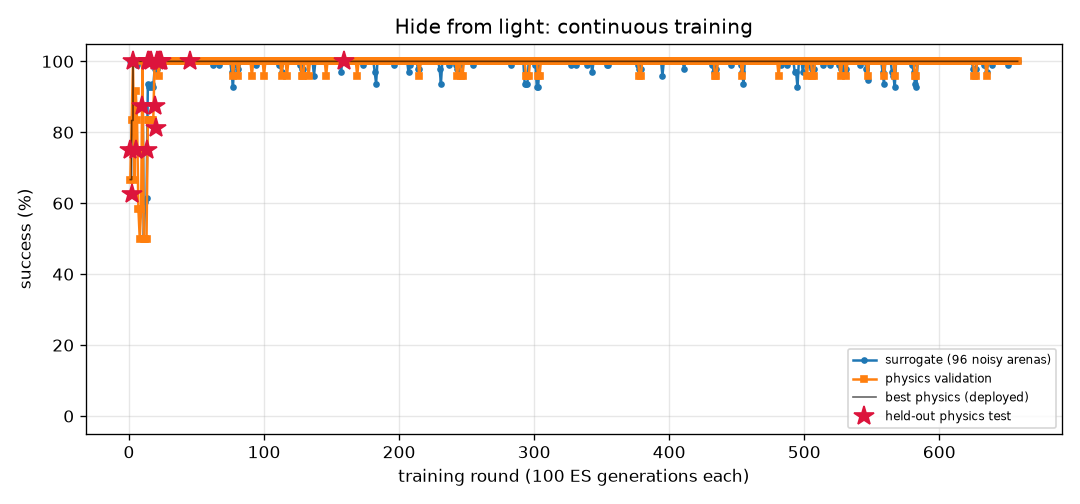
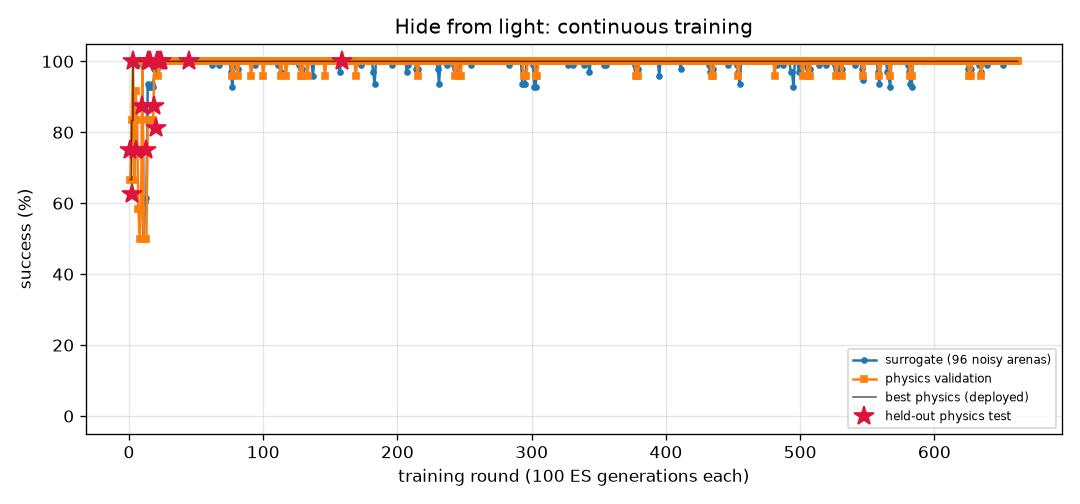
FlyLab: continuous training progress
- walk_forward: optimal, physics val 100% of 24, round 393
- turn: optimal, physics val 100% of 24, round 1070
- goto: optimal, physics val 100% of 24, round 304
- odor_seek: optimal, physics val 100% of 24, round 246
- odor_avoid: optimal, physics val 100% of 24, round 938
- light_seek: optimal, physics val 100% of 24, round 505
- light_avoid: optimal, physics val 100% of 24, round 662

diff --git a/projects/09_flylab/training/odor_avoid/REPORT.md b/projects/09_flylab/training/odor_avoid/REPORT.md
@@ -1,14 +1,14 @@
 # Escape a bad smell (`odor_avoid`) — training report
 
-*Auto-generated by `train_brains.py`, last updated 2026-11-15T16:46:27.*
+*Auto-generated by `train_brains.py`, last updated 2026-11-15T20:50:44.*
 
 ![curve](curve.png)
 
 | | |
 |---|---|
-| rounds | 933 |
-| ES generations | 93300 |
-| physics runs | 19698 |
+| rounds | 938 |
+| ES generations | 93800 |
+| physics runs | 19818 |
 | status | **optimal** |
 | best brain | round 373: physics validation **100%** on 24 arenas, surrogate 97% |
 | held-out physics test | **97%** on 32 unseen arenas (95% CI 84%-99%) (errors: [62.0, 57.4, 62.6, 61.9, 59.0, 61.6, 56.5, 60.7, 31.7, 60.9, 63.1, 57.1, 61.1, 62.1, 61.5, 60.2, 62.2, 55.2, 62.1, 54.2, 61.3, 62.0, 58.0, 61.9, 59.8, 56.5, 56.3, 56.4, 56.3, 57.7, 61.9, 32.4]) |
@@ -17,11 +17,6 @@ Physics error per arena: mm gained away from source (> 6 without first approachi
 
 | round | level | gens | sigma | surrogate | physics val | val errors | test | note |
 |---:|---:|---:|---:|---:|---:|---|---:|---|
-| 894 | 3 | 89400 | 0.026 | 93% | 100% | [62.2, 59.2, 56.2, 61.0, 62.3, 60.9, 60.6, 61.1, 61.4, 60.7, 62.0, 61.7, 55.1, 56.2, 51.7, 61.9, 62.0, 61.4, 52.6, 57.2, 61.9, 62.0, 59.4, 61.5] |  |  |
-| 895 | 3 | 89500 | 0.028 | 94% | 96% | [61.8, 56.5, 56.5, 56.5, 59.9, 59.1, 61.0, 34.6, 61.7, 58.2, 58.3, 60.9, 51.4, 55.4, 39.8, 59.8, 61.4, 57.2, 54.4, 58.8, 61.3, 54.9, 59.3, 59.9] |  |  |
-| 896 | 3 | 89600 | 0.028 | 96% | 100% | [60.9, 60.2, 56.0, 56.8, 61.7, 61.3, 60.6, 38.4, 61.5, 47.7, 59.6, 61.7, 54.3, 56.3, 43.2, 60.0, 61.7, 58.9, 54.7, 58.4, 61.4, 59.6, 59.2, 59.3] |  |  |
-| 897 | 3 | 89700 | 0.026 | 98% | 96% | [61.2, 59.0, 56.4, 60.5, 61.1, 62.1, 62.0, 59.5, 61.4, 61.7, 61.7, 61.8, 54.6, 55.9, 43.8, 61.0, 62.0, 61.8, 54.9, 56.8, 61.6, 61.7, 59.1, 61.7] |  | restart from best |
-| 898 | 3 | 89800 | 0.026 | 92% | 92% | [61.6, 56.7, 56.3, 56.5, 60.7, 39.8, 61.9, 1.4, 61.8, 23.5, 58.4, 61.2, 51.7, 55.5, 36.4, 60.8, 61.5, 60.4, 54.8, 56.0, 61.6, 23.4, 56.8, 14.6] |  |  |
 | 899 | 3 | 89900 | 0.029 | 97% | 100% | [60.9, 56.7, 56.4, 57.3, 62.1, 59.8, 60.1, 19.1, 61.8, 47.0, 61.8, 62.2, 54.9, 56.0, 50.9, 61.7, 61.5, 62.0, 55.6, 56.6, 62.5, 44.5, 57.3, 35.9] |  |  |
 | 900 | 3 | 90000 | 0.026 | 96% | 96% | [61.9, 57.5, 55.9, 60.6, 62.2, 62.1, 62.4, 34.9, 62.0, 49.6, 57.4, 62.0, 51.7, 51.7, 24.6, 60.9, 61.1, 60.6, 51.8, 57.0, 61.1, 60.2, 60.7, 52.0] |  |  |
 | 901 | 3 | 90100 | 0.026 | 95% | 96% | [61.9, 56.2, 55.4, 59.5, 45.3, 53.2, 60.0, 27.4, 61.7, 45.7, 33.2, 60.6, 46.5, 53.6, 1.4, 52.3, 59.2, 55.8, 48.6, 55.5, 59.0, 39.4, 60.3, 34.0] |  | restart from best |
@@ -57,3 +52,8 @@ Physics error per arena: mm gained away from source (> 6 without first approachi
 | 931 | 3 | 93100 | 0.027 | 95% | 96% | [62.6, 60.7, 55.9, 60.2, 61.3, 61.5, 60.9, 62.0, 59.0, 61.6, 61.0, 61.3, 50.5, 52.4, 32.4, 61.5, 61.0, 61.0, 54.9, 60.3, 61.1, 62.2, 60.2, 62.3] |  |  |
 | 932 | 3 | 93200 | 0.027 | 96% | 96% | [61.7, 60.0, 55.4, 60.0, 60.8, 59.9, 60.1, 61.6, 59.5, 59.6, 41.5, 60.6, 47.5, 55.4, 34.1, 49.6, 60.5, 53.8, 54.7, 57.6, 60.8, 61.7, 57.8, 61.7] |  |  |
 | 933 | 3 | 93300 | 0.026 | 96% | 96% | [59.8, 54.5, 54.6, 54.1, 58.9, 58.1, 59.1, 29.5, 59.2, 44.4, 58.8, 59.8, 51.5, 52.6, 44.3, 59.5, 59.8, 58.5, 53.3, 55.2, 59.8, 59.5, 53.8, 60.3] |  | restart from best |
+| 934 | 3 | 93400 | 0.026 | 96% | 96% | [62.4, 59.5, 55.8, 61.0, 62.0, 62.3, 61.7, 8.3, 62.2, 29.0, 61.6, 62.0, 51.9, 55.3, 41.1, 60.7, 62.4, 60.3, 55.3, 56.8, 62.3, 52.0, 60.2, 44.8] |  |  |
+| 935 | 3 | 93500 | 0.026 | 94% | 100% | [63.1, 56.9, 56.3, 57.5, 62.8, 62.3, 61.6, 62.6, 60.6, 61.8, 62.5, 62.3, 55.5, 57.8, 51.9, 62.2, 62.6, 62.4, 55.6, 54.4, 62.8, 62.9, 57.8, 62.4] |  |  |
+| 936 | 3 | 93600 | 0.028 | 94% | 96% | [59.8, 56.8, 54.4, 55.7, 58.2, 58.3, 60.2, 25.1, 58.8, 27.8, 3.0, 59.8, 50.6, 53.9, 35.4, 59.8, 59.5, 50.6, 52.4, 53.5, 59.6, 47.6, 56.1, 57.6] |  |  |
+| 937 | 3 | 93700 | 0.028 | 96% | 100% | [59.5, 58.4, 57.0, 58.2, 59.2, 59.8, 60.2, 59.1, 59.8, 58.5, 58.7, 59.3, 52.7, 56.5, 47.3, 60.4, 59.9, 59.9, 53.2, 57.5, 59.2, 60.8, 57.4, 60.7] |  | restart from best |
+| 938 | 3 | 93800 | 0.026 | 97% | 96% | [63.1, 57.1, 55.9, 55.7, 61.4, 61.3, 60.9, 48.4, 61.4, 27.1, 61.3, 61.8, 51.5, 56.1, 39.1, 60.8, 62.2, 54.1, 54.9, 59.4, 61.8, 40.6, 59.8, 50.8] |  |  |

diff --git a/projects/09_flylab/training/light_avoid/REPORT.md b/projects/09_flylab/training/light_avoid/REPORT.md
@@ -1,14 +1,14 @@
 # Hide from light (`light_avoid`) — training report
 
-*Auto-generated by `train_brains.py`, last updated 2026-11-15T17:47:11.*
+*Auto-generated by `train_brains.py`, last updated 2026-11-15T20:59:15.*
 
 ![curve](curve.png)
 
 | | |
 |---|---|
-| rounds | 658 |
-| ES generations | 65800 |
-| physics runs | 16064 |
+| rounds | 662 |
+| ES generations | 66200 |
+| physics runs | 16160 |
 | status | **optimal** |
 | best brain | round 159: physics validation **100%** on 24 arenas, surrogate 100% |
 | held-out physics test | **100%** on 32 unseen arenas (95% CI 89%-100%) (errors: [14.4, 56.1, 58.0, 57.9, 57.5, 14.0, 14.4, 56.6, 56.8, 13.3, 14.1, 56.6, 57.6, 13.1, 57.3, 55.9, 57.2, 55.0, 55.2, 53.9, 55.2, 12.4, 53.8, 53.7, 14.1, 13.7, 55.0, 57.8, 56.2, 13.1, 52.8, 56.5]) |
@@ -17,10 +17,6 @@ Physics error per arena: mm gained away from source (> 6 without first approachi
 
 | round | level | gens | sigma | surrogate | physics val | val errors | test | note |
 |---:|---:|---:|---:|---:|---:|---|---:|---|
-| 619 | 3 | 61900 | 0.024 | 100% | 100% | [50.8, 51.1, 51.1, 51.2, 46.4, 49.9, 51.6, 14.5, 41.3, 13.4, 49.2, 46.3, 14.4, 46.5, 51.1, 50.9, 14.2, 47.4, 50.7, 14.4, 50.6, 50.3, 51.8, 44.7] |  | restart from best |
-| 620 | 3 | 62000 | 0.024 | 100% | 100% | [43.2, 43.2, 42.4, 43.2, 45.4, 43.8, 40.9, 14.5, 42.0, 12.9, 45.6, 45.2, 14.4, 45.9, 42.9, 44.0, 14.2, 45.1, 43.3, 14.4, 41.8, 45.9, 42.0, 45.4] |  |  |
-| 621 | 3 | 62100 | 0.024 | 100% | 100% | [38.0, 37.4, 37.2, 38.5, 40.0, 38.2, 35.1, 14.5, 37.4, 13.3, 40.1, 40.1, 14.4, 40.5, 36.9, 38.4, 14.2, 39.9, 37.8, 14.4, 38.3, 40.0, 34.4, 39.9] |  |  |
-| 622 | 3 | 62200 | 0.024 | 100% | 100% | [42.7, 45.0, 43.8, 44.4, 47.8, 44.3, 42.5, 14.5, 40.3, 13.2, 44.0, 48.3, 14.4, 45.0, 45.1, 43.3, 14.2, 47.8, 45.5, 14.4, 45.4, 44.0, 42.2, 48.6] |  |  |
 | 623 | 3 | 62300 | 0.024 | 100% | 100% | [57.4, 61.2, 61.0, 57.9, 60.4, 58.6, 59.8, 14.5, 56.8, 13.2, 60.0, 60.2, 14.4, 60.0, 61.2, 57.0, 14.2, 60.9, 61.5, 14.4, 58.8, 60.2, 59.7, 59.5] |  | restart from best |
 | 624 | 3 | 62400 | 0.024 | 100% | 100% | [44.1, 45.8, 45.3, 46.1, 48.4, 44.4, 43.5, 14.5, 43.1, 13.4, 48.7, 48.7, 14.4, 48.8, 45.4, 44.5, 14.2, 48.4, 45.3, 14.4, 44.4, 49.0, 44.1, 48.7] |  |  |
 | 625 | 3 | 62500 | 0.024 | 98% | 100% | [41.9, 42.4, 42.9, 43.5, 38.0, 43.2, 43.6, 14.5, 12.9, 13.5, 8.5, 37.9, 14.4, 37.9, 43.3, 42.8, 14.2, 39.2, 41.8, 14.4, 40.9, 9.0, 44.4, 36.5] |  |  |
@@ -57,3 +53,7 @@ Physics error per arena: mm gained away from source (> 6 without first approachi
 | 656 | 3 | 65600 | 0.024 | 100% | 100% | [55.1, 58.5, 58.3, 55.2, 57.8, 55.4, 57.1, 14.5, 52.7, 13.2, 57.6, 57.6, 14.4, 55.7, 58.4, 54.1, 14.2, 58.3, 58.8, 14.4, 55.9, 57.6, 56.6, 57.0] |  |  |
 | 657 | 3 | 65700 | 0.024 | 100% | 100% | [55.5, 58.4, 58.1, 55.2, 57.9, 55.3, 56.8, 14.5, 52.1, 13.5, 57.2, 57.6, 14.4, 55.6, 58.3, 53.8, 14.2, 58.3, 58.7, 14.4, 56.5, 57.3, 56.4, 57.1] |  |  |
 | 658 | 3 | 65800 | 0.024 | 100% | 100% | [55.1, 56.7, 56.5, 54.6, 56.2, 53.6, 55.3, 14.5, 40.8, 13.3, 54.5, 56.0, 14.4, 55.5, 56.7, 53.2, 14.2, 56.7, 57.1, 14.4, 55.1, 54.6, 55.0, 55.4] |  |  |
+| 659 | 3 | 65900 | 0.024 | 100% | 100% | [54.2, 56.5, 56.4, 54.3, 55.1, 54.5, 55.5, 14.5, 52.0, 13.2, 56.1, 54.7, 14.4, 55.6, 56.4, 53.9, 14.2, 55.7, 56.7, 14.4, 54.0, 56.1, 55.2, 54.1] |  | restart from best |
+| 660 | 3 | 66000 | 0.024 | 100% | 100% | [42.4, 43.9, 42.7, 41.9, 45.4, 42.8, 41.3, 14.5, 41.8, 13.2, 45.4, 45.6, 14.4, 45.8, 43.8, 42.8, 14.2, 45.5, 44.4, 14.4, 43.9, 44.5, 40.5, 45.8] |  |  |
+| 661 | 3 | 66100 | 0.024 | 100% | 100% | [40.9, 40.8, 40.3, 41.7, 44.1, 41.9, 38.5, 14.5, 39.2, 13.6, 42.0, 44.0, 14.4, 42.5, 41.1, 43.2, 14.2, 43.9, 41.9, 14.4, 43.9, 42.4, 38.2, 44.2] |  |  |
+| 662 | 3 | 66200 | 0.024 | 100% | 100% | [44.7, 45.4, 45.6, 44.7, 41.7, 44.6, 45.8, 14.5, 42.5, 13.4, 44.8, 41.9, 14.4, 44.9, 45.6, 44.5, 14.2, 42.3, 45.2, 14.4, 43.3, 44.6, 45.7, 40.8] |  |  |

diff --git a/projects/09_flylab/training/turn/REPORT.md b/projects/09_flylab/training/turn/REPORT.md
@@ -1,14 +1,14 @@
 # Turn in place (`turn`) — training report
 
-*Auto-generated by `train_brains.py`, last updated 2026-11-15T19:52:14.*
+*Auto-generated by `train_brains.py`, last updated 2026-11-15T20:16:01.*
 
 ![curve](curve.png)
 
 | | |
 |---|---|
-| rounds | 1067 |
-| ES generations | 106700 |
-| physics runs | 25854 |
+| rounds | 1070 |
+| ES generations | 107000 |
+| physics runs | 25926 |
 | status | **optimal** |
 | best brain | round 80: physics validation **100%** on 24 arenas, surrogate 100% |
 | held-out physics test | **97%** on 32 unseen arenas (95% CI 84%-99%) (errors: [1.6, 3.3, 6.3, 3.7, 1.1, 0.4, 2.4, 2.9, 0.1, 2.6, 0.5, 2.7, 1.5, 3.1, 4.5, 0.2, 0.5, 1.1, 2.0, 4.4, 2.8, 3.2, 0.3, 2.2, 0.5, 3.0, 0.3, 5.4, 0.4, 1.0, 4.7, 10.7]) |
@@ -17,9 +17,6 @@ Physics error per arena: deg from target heading (< 20 = success).
 
 | round | level | gens | sigma | surrogate | physics val | val errors | test | note |
 |---:|---:|---:|---:|---:|---:|---|---:|---|
-| 1028 | 3 | 102800 | 0.025 | 99% | 79% | [8.7, 8.2, 8.7, 4.2, 11.0, 2.1, 3.6, 0.6, 4.8, 2.5, 3.0, 1.8, 2.8, 3.2, 3.9, 0.3, 1.8, 1.0, 0.8, 2.3, 6.8, 2.6, 2.5, 2.8] |  | restart from best |
-| 1029 | 3 | 102900 | 0.024 | 100% | 79% | [6.8, 7.1, 1.8, 1.3, 2.9, 120.4, 4.1, 0.3, 1.8, 0.9, 4.2, 2.7, 2.2, 0.2, 2.9, 0.2, 2.5, 1.2, 1.3, 1.5, 5.5, 1.0, 3.9, 5.1] |  |  |
-| 1030 | 3 | 103000 | 0.024 | 99% | 83% | [8.1, 12.2, 7.2, 3.5, 4.1, 1.4, 1.1, 1.2, 1.0, 2.4, 1.1, 4.2, 3.6, 6.2, 0.8, 4.0, 4.1, 3.2, 4.2, 3.8, 5.2, 2.5, 0.8, 4.9] |  |  |
 | 1031 | 3 | 103100 | 0.025 | 99% | 100% | [5.9, 9.1, 7.6, 0.1, 1.0, 1.1, 2.5, 2.2, 3.6, 1.6, 2.7, 1.3, 0.4, 3.7, 2.8, 1.7, 0.8, 1.4, 1.9, 0.4, 8.2, 0.5, 3.7, 1.9] |  |  |
 | 1032 | 3 | 103200 | 0.025 | 100% | 100% | [6.8, 8.7, 6.4, 1.7, 1.4, 0.4, 0.4, 0.1, 1.5, 3.1, 1.4, 2.4, 4.9, 5.0, 1.2, 2.7, 2.1, 3.7, 1.1, 0.7, 7.2, 0.7, 0.1, 3.5] |  | restart from best |
 | 1033 | 3 | 103300 | 0.024 | 99% | 88% | [6.7, 9.5, 0.1, 3.5, 4.1, 0.8, 3.7, 0.5, 4.6, 0.2, 3.5, 2.1, 1.5, 4.9, 2.2, 1.7, 2.4, 0.3, 1.6, 0.1, 7.2, 1.0, 4.5, 0.5] |  |  |
@@ -57,3 +54,6 @@ Physics error per arena: deg from target heading (< 20 = success).
 | 1065 | 3 | 106500 | 0.024 | 99% | 83% | [1.0, 5.1, 0.8, 2.2, 0.3, 1.3, 4.6, 5.7, 6.0, 0.2, 3.8, 0.5, 1.7, 2.8, 3.6, 2.4, 0.4, 1.9, 2.6, 1.8, 3.3, 0.7, 5.7, 5.1] |  |  |
 | 1066 | 3 | 106600 | 0.025 | 98% | 92% | [2.3, 4.7, 1.5, 2.7, 0.9, 0.6, 6.2, 5.2, 5.4, 0.8, 3.0, 0.1, 0.5, 2.7, 4.2, 3.1, 0.0, 2.1, 2.9, 1.0, 3.0, 15.0, 4.9, 4.5] |  |  |
 | 1067 | 3 | 106700 | 0.025 | 99% | 83% | [9.6, 10.8, 3.7, 1.9, 6.7, 7.1, 3.7, 8.0, 1.1, 0.2, 2.8, 4.4, 2.1, 4.8, 2.2, 2.5, 4.4, 0.4, 0.9, 2.1, 8.3, 0.5, 2.0, 0.6] |  |  |
+| 1068 | 3 | 106800 | 0.025 | 98% | 83% | [3.5, 1.4, 5.0, 0.8, 2.5, 0.1, 6.4, 8.3, 6.2, 1.3, 5.6, 1.0, 2.3, 1.8, 4.7, 0.8, 1.0, 1.9, 0.9, 1.1, 5.2, 2.6, 6.9, 6.9] |  | restart from best |
+| 1069 | 3 | 106900 | 0.024 | 100% | 62% | [4.2, 0.3, 2.8, 0.7, 2.1, 0.0, 5.8, 2.7, 3.5, 0.5, 5.7, 0.1, 1.1, 2.7, 5.1, 0.5, 0.4, 5.1, 1.3, 0.5, 7.6, 2.2, 6.5, 5.2] |  |  |
+| 1070 | 3 | 107000 | 0.024 | 98% | 92% | [9.3, 11.0, 6.5, 6.1, 2.8, 4.0, 2.1, 2.0, 1.8, 2.8, 2.2, 3.9, 4.1, 2.9, 1.8, 1.6, 3.5, 1.2, 1.1, 3.4, 8.1, 0.6, 2.6, 1.7] |  |  |

diff --git a/projects/09_flylab/training/TRAINING.md b/projects/09_flylab/training/TRAINING.md
@@ -1,15 +1,15 @@
 # FlyLab brains — continuous training log
 
-*Auto-generated by `train_brains.py`, last updated 2026-11-15T19:57:08.*
+*Auto-generated by `train_brains.py`, last updated 2026-11-15T20:59:15.*
 
 Every skill has its own brain and its own training process: surrogate ES rounds, physics validation in MuJoCo, keep-the-best selection, and a held-out physics test that is never used for selection. See each skill's report for its full round-by-round history. Mastery is progressive: passing a level (100% physics validation, >=95% surrogate) doubles the validation and test arena sets; a brain is **optimal** once it holds up at level 3 (>=95% of 24 validation arenas) AND scores >=90% on the 32 held-out test arenas. Test columns show 95% Wilson confidence intervals.
 
 | skill | rounds | ES generations | physics runs | surrogate | physics val | **physics test** | status |
 |---|---:|---:|---:|---:|---:|---:|---|
 | [Walk forward](walk_forward/REPORT.md) | 393 | 39300 | 9446 | 100% | 100% of 24 | 100% of 32 (CI 89-100%) | **optimal** |
-| [Turn in place](turn/REPORT.md) | 1067 | 106700 | 25854 | 100% | 100% of 24 | 97% of 32 (CI 84-99%) | **optimal** |
+| [Turn in place](turn/REPORT.md) | 1070 | 107000 | 25926 | 100% | 100% of 24 | 97% of 32 (CI 84-99%) | **optimal** |
 | [Go to a location](goto/REPORT.md) | 304 | 30400 | 7246 | 100% | 100% of 24 | 100% of 32 (CI 89-100%) | **optimal** |
 | [Find food by smell](odor_seek/REPORT.md) | 246 | 24600 | 5398 | 100% | 100% of 24 | 100% of 32 (CI 89-100%) | **optimal** |
-| [Escape a bad smell](odor_avoid/REPORT.md) | 933 | 93300 | 19698 | 97% | 100% of 24 | 97% of 32 (CI 84-99%) | **optimal** |
+| [Escape a bad smell](odor_avoid/REPORT.md) | 938 | 93800 | 19818 | 97% | 100% of 24 | 97% of 32 (CI 84-99%) | **optimal** |
 | [Walk toward light](light_seek/REPORT.md) | 505 | 50500 | 9000 | 100% | 100% of 24 | 100% of 32 (CI 89-100%) | **optimal** |
-| [Hide from light](light_avoid/REPORT.md) | 658 | 65800 | 16064 | 100% | 100% of 24 | 100% of 32 (CI 89-100%) | **optimal** |
+| [Hide from light](light_avoid/REPORT.md) | 662 | 66200 | 16160 | 100% | 100% of 24 | 100% of 32 (CI 89-100%) | **optimal** |
